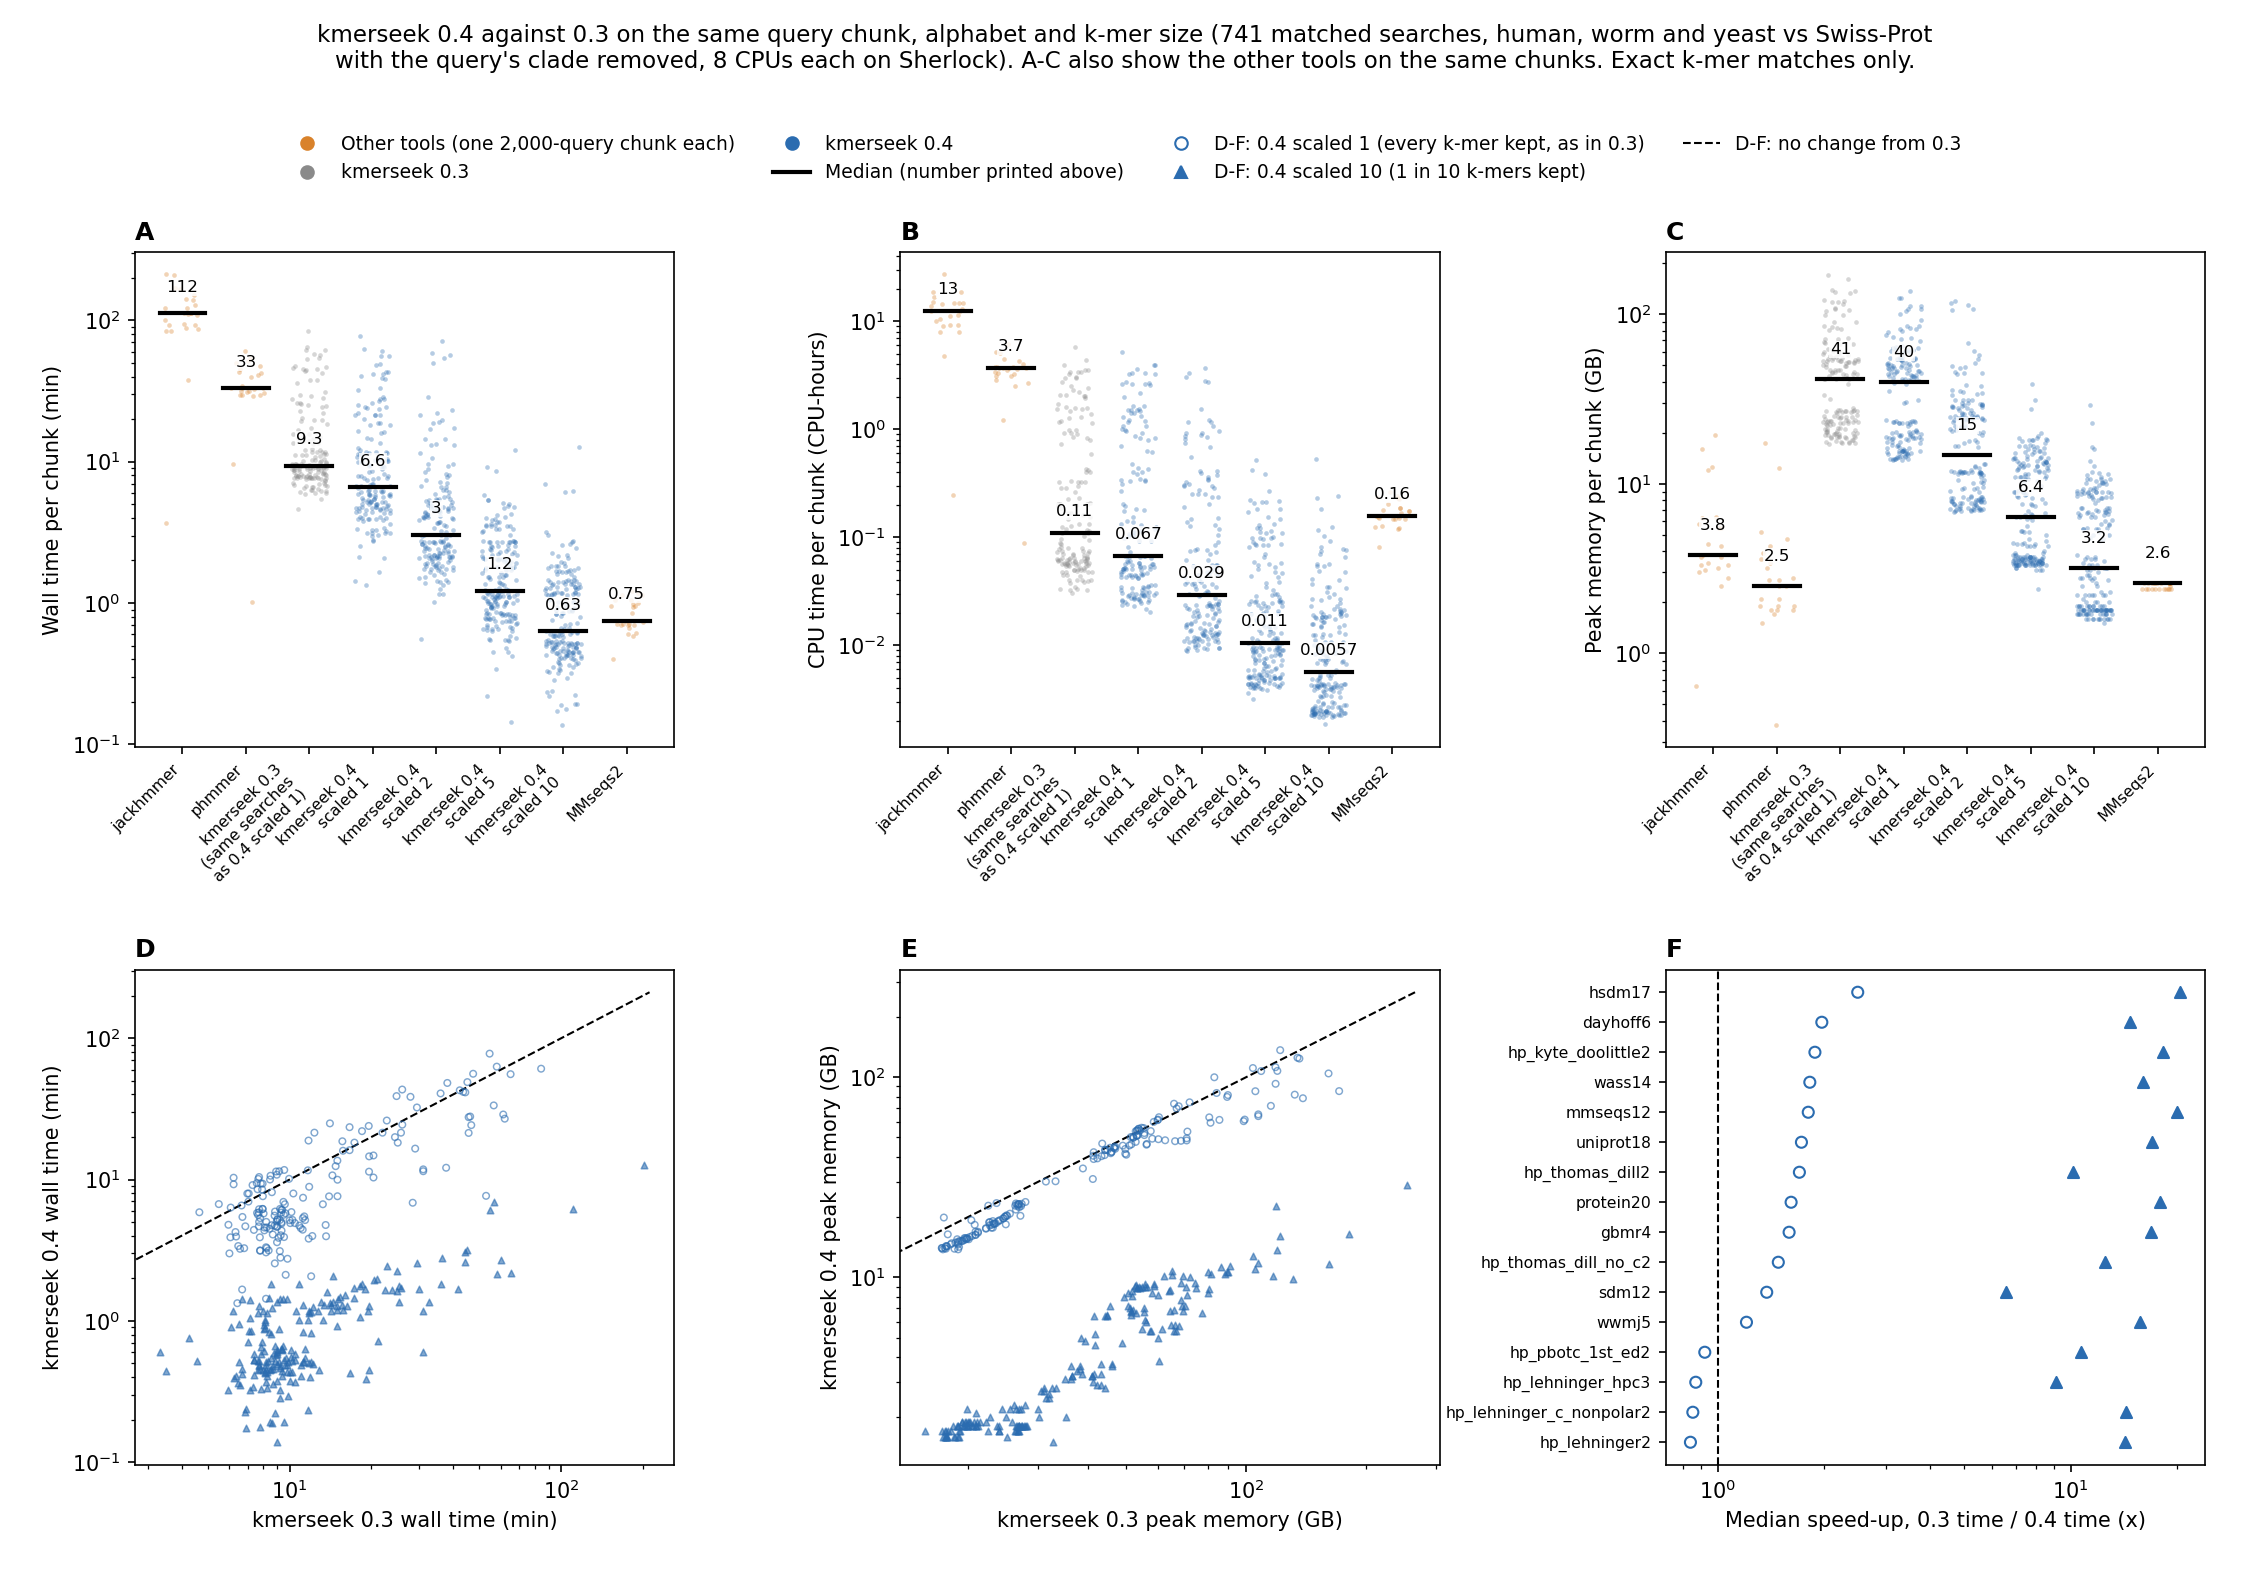
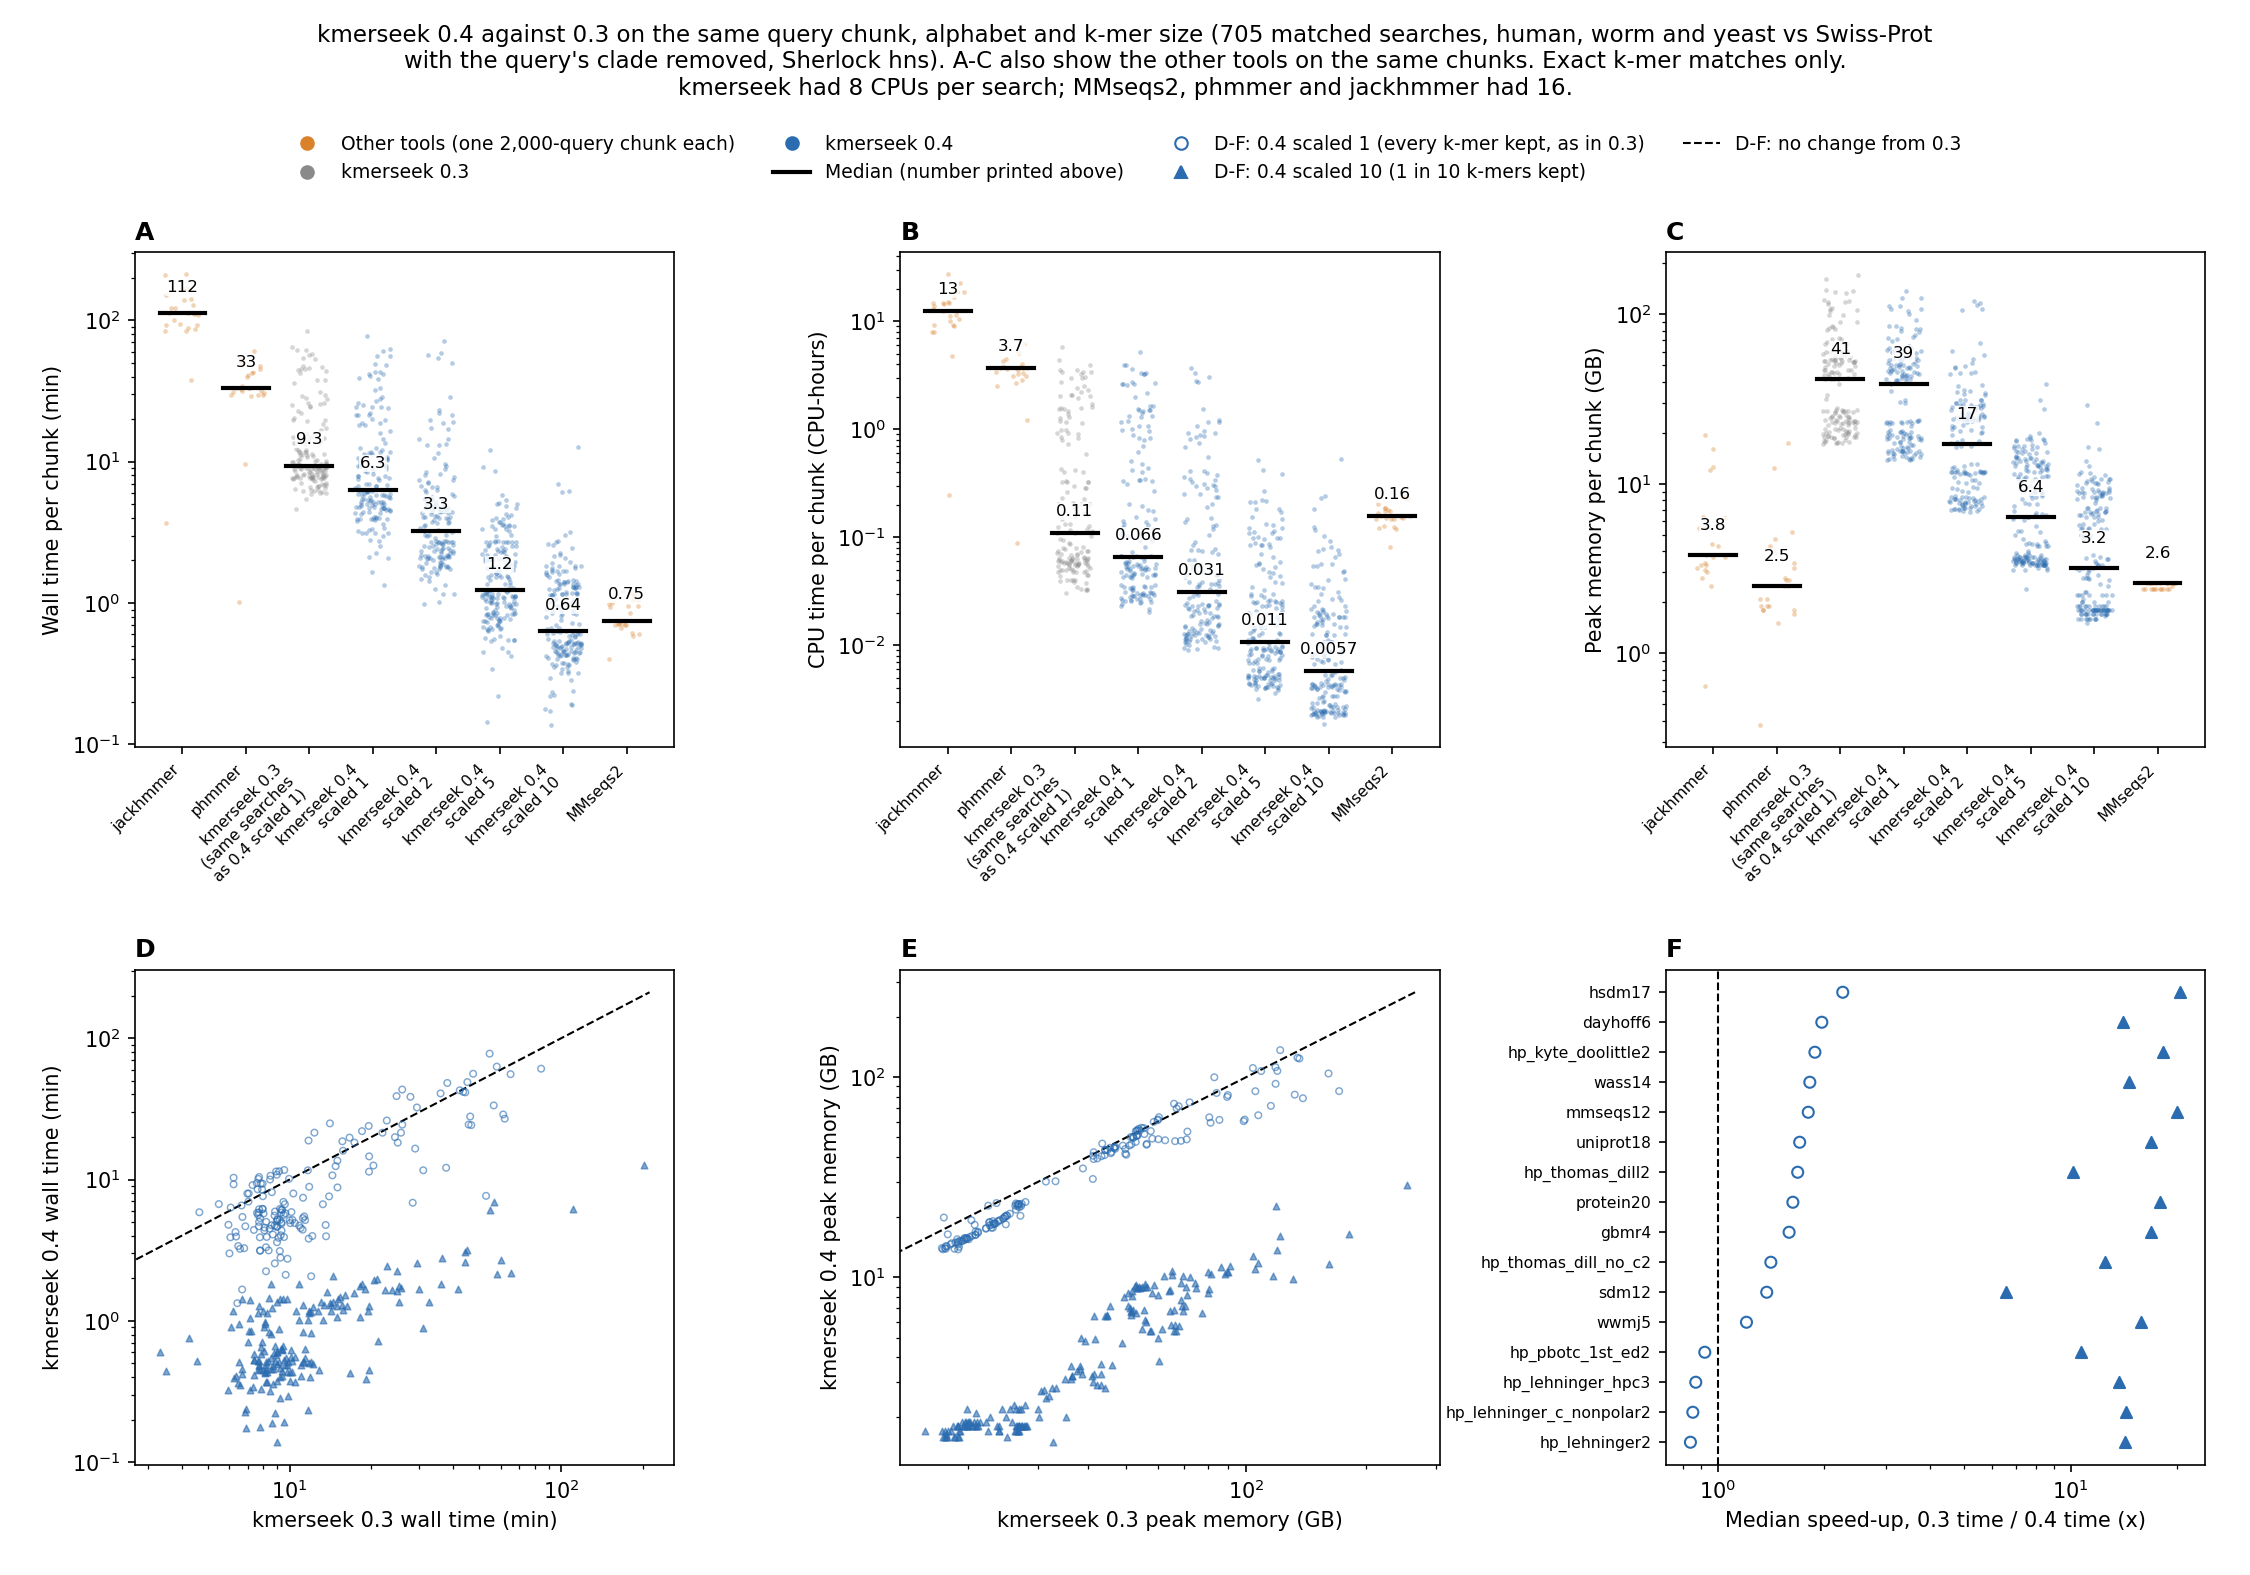
0.4 vs 0.3 cost: count re-run searches once, say the other tools had 16 CPUs
From /analysis-review on this PR:

- 1,027 0.4 searches finished twice under different hashes (354 exact). Each is now
  counted once with the mean of its runs: 705 pairs, not 741. Medians barely move
  (scaled 10 wall-time speed-up 15.3x -> 15.1x).
- MMseqs2, phmmer and jackhmmer had 16 CPUs (label high_cpu), not 8. The figure title
  and docstring say so, and the script prints the cores each tool used.
- Paired ratios now carry their 25th and 75th percentiles, in a new
  tables/kmerseek_0.4_vs_0.3_resource_paired_overall.csv.

diff --git a/scripts/kmerseek_0_4_vs_0_3_resource.py b/scripts/kmerseek_0_4_vs_0_3_resource.py
@@ -11,7 +11,8 @@ Inputs (data/kmerseek_0.4_vs_0.3_resource/):
                                 its task limit.
 
 Both runs search 2_000-query chunks of one proteome against Swiss-Prot with the query's own
-clade removed, with 8 CPUs per search on Sherlock hns. A 0.4 search is paired with the 0.3
+clade removed, on Sherlock hns. kmerseek had 8 CPUs per search; MMseqs2, phmmer and jackhmmer had 16
+(label high_cpu). A 0.4 search is paired with the 0.3
 search on the same species, chunk, alphabet and k. 0.3 kept every k-mer, which is 0.4's
 scaled 1.
 
@@ -19,6 +20,7 @@ Outputs:
   figures/kmerseek_0.4_vs_0.3_resource_matched.png
   tables/kmerseek_0.4_vs_0.3_resource_matched_summary.csv   median and max per tool
   tables/kmerseek_0.4_vs_0.3_resource_by_alphabet.csv       paired median ratios per alphabet
+  tables/kmerseek_0.4_vs_0.3_resource_paired_overall.csv    paired ratios by scaling, with quartiles
   tables/kmerseek_0.4_index_build_cost.csv                  0.4 index builds by scaling
 
 Run from the repository root:
@@ -90,6 +92,14 @@ def load_tasks():
         realtime_s=pl.col("realtime").map_elements(seconds, return_dtype=pl.Float64),
         rss_gb=pl.col("peak_rss").map_elements(gigabytes, return_dtype=pl.Float64),
         cpu=pl.col("%cpu").str.strip_suffix("%").cast(pl.Float64, strict=False) / 100,
+    ).with_columns(cpu_h=pl.col("realtime_s") * pl.col("cpu") / 3600)
+    # The same search can finish twice under different hashes: a later head of the 0.4 run
+    # re-ran 354 exact searches that had already completed. Count each search once, with
+    # the mean of its runs. The `nextflow log` export has no run name, so "the latest run"
+    # cannot be picked instead.
+    d = d.group_by("ver", "name", "proc", "tag", maintain_order=True).agg(
+        pl.col("realtime_s", "rss_gb", "cpu", "cpu_h").mean(),
+        n_runs=pl.len(),
     )
     return d.with_columns(
         species=pl.col("tag").str.extract(r"^(\w+)\.chunk"),
@@ -102,8 +112,24 @@ def load_tasks():
         .cast(pl.Int32, strict=False)
         .fill_null(1),
         arm=pl.col("tag").str.extract(r"lc\w+\.(.*)$"),
-        cpu_h=pl.col("realtime_s") * pl.col("cpu") / 3600,
     )
+
+
+def paired_ratios():
+    """Paired 0.3 / 0.4 ratios, each as a median with its 25th and 75th percentiles."""
+    exprs = [pl.len().alias("n_pairs")]
+    for name, old, new in (
+        ("speedup", "rt3", "realtime_s"),
+        ("memory_ratio", "rss3", "rss_gb"),
+        ("cpu_time_ratio", "cpu3", "cpu_h"),
+    ):
+        r = pl.col(old) / pl.col(new)
+        exprs += [
+            r.median().alias(f"{name}_median"),
+            r.quantile(0.25, "linear").alias(f"{name}_q25"),
+            r.quantile(0.75, "linear").alias(f"{name}_q75"),
+        ]
+    return exprs
 
 
 def main():
@@ -161,25 +187,30 @@ def main():
 
     by_alphabet = (
         pairs.group_by("alphabet", "scaled")
-        .agg(
-            pl.len().alias("n_pairs"),
-            (pl.col("rt3") / pl.col("realtime_s")).median().alias("speedup_median"),
-            (pl.col("rss3") / pl.col("rss_gb")).median().alias("memory_ratio_median"),
-            (pl.col("cpu3") / pl.col("cpu_h")).median().alias("cpu_time_ratio_median"),
-        )
+        .agg(*paired_ratios())
         .sort("alphabet", "scaled")
     )
-    overall = (
-        pairs.group_by("scaled")
-        .agg(
-            pl.len().alias("n_pairs"),
-            (pl.col("rt3") / pl.col("realtime_s")).median().alias("speedup_median"),
-            (pl.col("rss3") / pl.col("rss_gb")).median().alias("memory_ratio_median"),
-            (pl.col("cpu3") / pl.col("cpu_h")).median().alias("cpu_time_ratio_median"),
-        )
-        .sort("scaled")
-    )
+    overall = pairs.group_by("scaled").agg(*paired_ratios()).sort("scaled")
     print(overall)
+    overall.write_csv(TABLES / "kmerseek_0.4_vs_0.3_resource_paired_overall.csv")
+
+    # Cores in use, as a share of the request: kmerseek asked for 8 CPUs, and MMseqs2,
+    # phmmer and jackhmmer (label high_cpu) for 16 on the sherlock profile.
+    cores = (
+        pl.concat(
+            [
+                pairs.select(
+                    tool=pl.format("kmerseek 0.4 scaled {}", "scaled"), cpu="cpu"
+                ),
+                k03_matched.select(tool=pl.lit("kmerseek 0.3"), cpu="cpu"),
+                others.select(tool="proc", cpu="cpu"),
+            ]
+        )
+        .group_by("tool")
+        .agg(pl.len().alias("n"), pl.col("cpu").median().alias("cores_in_use_median"))
+        .sort("tool")
+    )
+    print(cores)
 
     index = (
         d.filter((pl.col("proc") == "kmerseekIndex") & (pl.col("ver") == "0.4"))
@@ -326,8 +357,9 @@ def main():
     )
     fig.suptitle(
         f"kmerseek 0.4 against 0.3 on the same query chunk, alphabet and k-mer size ({pairs.height:,} matched "
-        "searches, human, worm and yeast vs Swiss-Prot\nwith the query's clade removed, 8 CPUs each on Sherlock). "
-        "A-C also show the other tools on the same chunks. Exact k-mer matches only.",
+        "searches, human, worm and yeast vs Swiss-Prot\nwith the query's clade removed, Sherlock hns). "
+        "A-C also show the other tools on the same chunks. Exact k-mer matches only.\n"
+        "kmerseek had 8 CPUs per search; MMseqs2, phmmer and jackhmmer had 16.",
         fontsize=11,
         y=0.985,
     )
